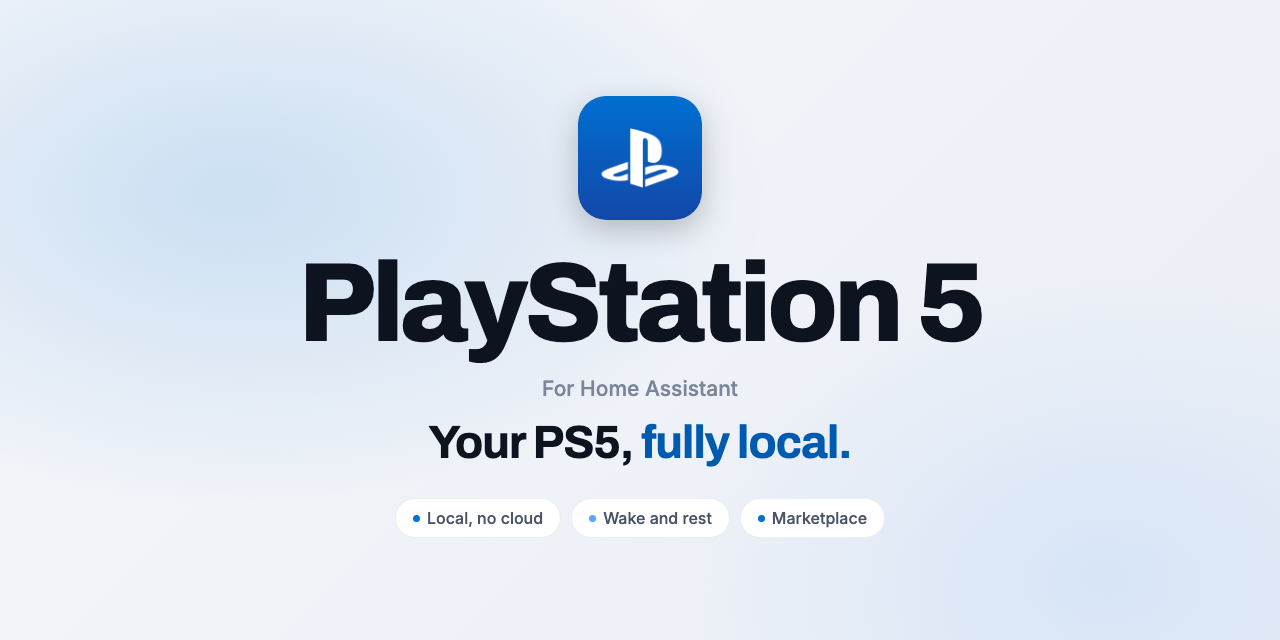
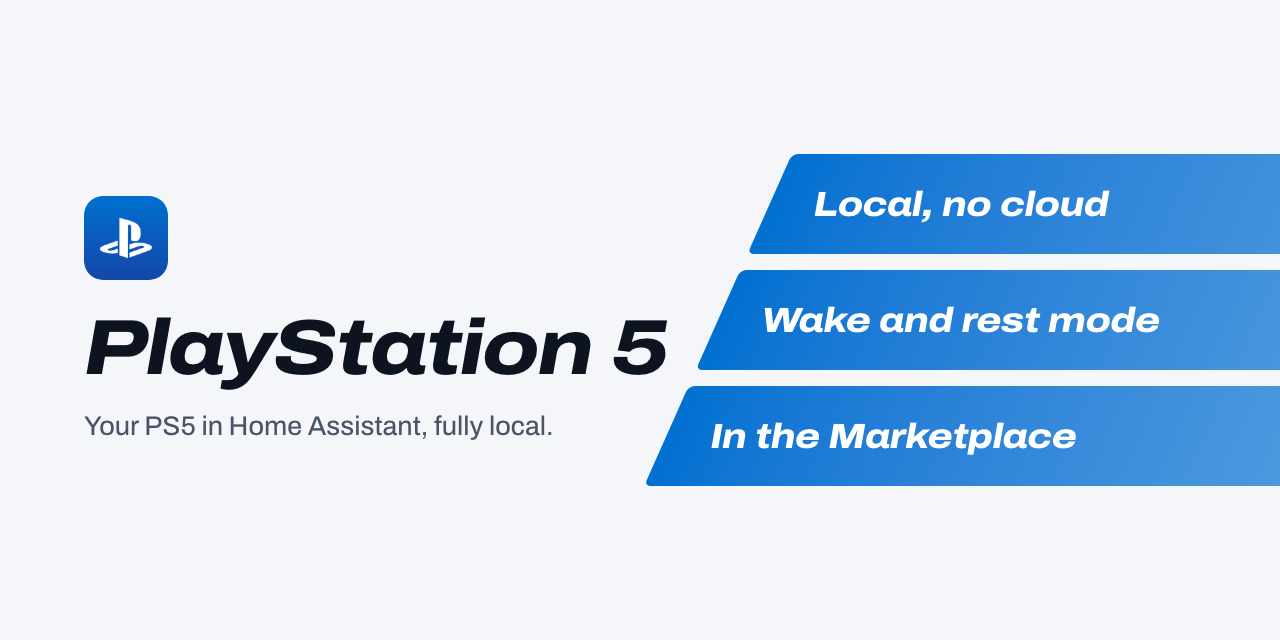
README and project page in the v2 design
Title banner with the lanes, Install and Set up as one Get started, shared
footer. The page loads theme v2 (Archivo from sh1ft-w.github.io, no Google
Fonts), hero left with the three key facts on the lanes.

Claude-Session: https://claude.ai/code/session_01TLmTtZLAvnS1BJ3w9tzxXq

diff --git a/docs/index.html b/docs/index.html
@@ -13,12 +13,9 @@
 <meta property="og:description" content="Status, wake-up and rest mode for the PS5, fully local. Game and trophies optional.">
 <meta property="og:image" content="https://sh1ft-w.github.io/playstation-5/images/readme-title-social.png">
 <link rel="icon" href="logo.png">
-<link rel="preconnect" href="https://fonts.googleapis.com">
-<link rel="preconnect" href="https://fonts.gstatic.com" crossorigin>
-<link href="https://fonts.googleapis.com/css2?family=Archivo:wght@600;700;800;900&family=Inter:wght@400;500;600&family=JetBrains+Mono:wght@400;500&display=swap" rel="stylesheet">
-<!-- Shared SH1FT-W design (tokens, glass navigation, light/dark, DE/EN, reveal) -->
-<link rel="stylesheet" href="https://sh1ft-w.github.io/theme/v1/theme.css">
-<script src="https://sh1ft-w.github.io/theme/v1/theme.js"></script>
+<!-- Shared SH1FT-W design, version 2 (tokens, Archivo, navigation, light/dark, DE/EN, the lanes) -->
+<link rel="stylesheet" href="https://sh1ft-w.github.io/theme/v2/theme.css">
+<script src="https://sh1ft-w.github.io/theme/v2/theme.js"></script>
 <style>
 /* PS5-Palette: kühles Weiß bei Tag, tiefes Nachtblau bei Nacht, ein Akzent in PlayStation-Blau */
 :root {
@@ -98,19 +95,12 @@ section.tint { background: var(--bg-2); }
 
 /* Hero */
 .hero { padding: clamp(56px, 9vw, 112px) 0 clamp(64px, 8vw, 104px); text-align: center; overflow: hidden; }
-.hero .glow { position: absolute; inset: -20% -10% auto; height: 90%; pointer-events: none;
-  background: radial-gradient(40% 36% at 30% 30%, rgba(0,112,209,0.2), transparent 70%), radial-gradient(36% 34% at 72% 24%, rgba(90,166,255,0.18), transparent 70%);
-  filter: blur(50px); }
 .hero .wrap { position: relative; }
 .hero .lead { max-width: 660px; margin-left: auto; margin-right: auto; }
 .cta { display: flex; flex-wrap: wrap; gap: 12px; justify-content: center; margin-top: 34px; }
 .meta { margin-top: 22px; font-size: 14px; color: var(--ink-3); display: flex; flex-wrap: wrap; gap: 8px 14px; justify-content: center; align-items: center; }
 .pill { display: inline-flex; align-items: center; gap: 6px; padding: 5px 12px; border-radius: 999px; background: var(--card); box-shadow: var(--shadow); font-weight: 600; color: var(--ink-2); font-size: 13px; }
 .pill i { width: 7px; height: 7px; border-radius: 50%; background: var(--blue); display: inline-block; }
-
-/* Bühne: das README-Titelbild */
-.stage { position: relative; margin: clamp(48px, 7vw, 84px) auto 0; max-width: 1100px; }
-.stage .photo { display: block; width: 100%; height: auto; aspect-ratio: 2 / 1; border-radius: var(--radius-lg); box-shadow: var(--shadow-lg); }
 
 /* Bento: Gerade neu */
 .bento { display: grid; grid-template-columns: repeat(12, 1fr); gap: 16px; }
@@ -256,6 +246,35 @@ footer .fine { flex-basis: 100%; line-height: 1.6; }
   .tbl.ctl th:not(:first-child), .tbl.ctl td:not(:first-child) { width: 72px; }
   .shield { flex-direction: column; }
 }
+
+/* ---- theme v2 ---- */
+:root { --font: "Archivo", -apple-system, BlinkMacSystemFont, system-ui, sans-serif; --display: var(--font); --mono: ui-monospace, "SF Mono", Menlo, monospace;
+  --lane-a: #0070D1; --lane-b: #5AA6FF; --radius: 20px; --radius-lg: 28px; --max: 1200px; }
+body { font-family: var(--font); }
+h1 { font-size: clamp(44px, 6vw, 84px); line-height: 1; font-weight: 800; font-stretch: 118%; font-style: italic; letter-spacing: -0.025em; }
+h2 { font-size: clamp(30px, 3.8vw, 48px); line-height: 1.08; font-weight: 750; font-stretch: 112%; letter-spacing: -0.02em; }
+h3 { font-stretch: 106%; }
+h1 em, h2 em { color: inherit !important; font-style: inherit; }
+.center { text-align: left; } .center .lead { margin-left: 0; margin-right: 0; }
+.head { max-width: 50em; }
+.eyebrow { text-transform: none; letter-spacing: 0; font-size: 16px; font-weight: 650; margin-bottom: 12px; }
+.eyebrow::before { display: none; }
+.cap { text-align: left; }
+.btn { border-radius: 12px; box-shadow: none; }
+.btn.ghost { background: var(--chip); box-shadow: none; }
+.pill { box-shadow: none; background: var(--chip); border-radius: 8px; }
+.b, .tile, .panel, .prof, .tbl, .faq details, .flow .lane { box-shadow: none; border: 1px solid var(--line); }
+.b .tag, .tg, .tbl thead th, .tbl .grp td { text-transform: none; letter-spacing: 0; font-size: 13px; }
+.b .tag, .tg { border-radius: 6px; }
+.tile .ico, .shield .ico { border-radius: 10px; }
+.hero { text-align: left; padding: clamp(48px, 7vw, 96px) 0 clamp(56px, 7vw, 96px); overflow: hidden; }
+.hero .wrap { display: grid; grid-template-columns: minmax(0, 1.15fr) minmax(0, 1fr); gap: clamp(24px, 4vw, 64px); align-items: center; }
+.hero .mark { width: 64px; height: 64px; border-radius: 15px; margin-bottom: 26px; }
+.hero .lead { margin-left: 0; max-width: 34em; }
+.cta, .meta { justify-content: flex-start; }
+.hero .s-lanes { margin-right: calc(-1 * var(--gutter) - 14vw); }
+.s-track b { color: #fff; font: italic 800 clamp(20px, 2.5vw, 34px)/1 var(--font); font-stretch: 116%; letter-spacing: -0.015em; white-space: nowrap; }
+@media (max-width: 900px) { .hero .wrap { grid-template-columns: 1fr; } .hero .s-lanes { margin: 8px calc(-1 * var(--gutter) - 8vw) 0 44px; } }
 </style>
 </head>
 <body>
@@ -281,25 +300,24 @@ footer .fine { flex-basis: 100%; line-height: 1.6; }
 </div>
 
 <section class="hero" id="top">
-  <div class="glow" aria-hidden="true"></div>
   <div class="wrap">
-    <p class="eyebrow reveal"><span class="en">The PS5 in Home Assistant</span><span class="de">Die PS5 in Home Assistant</span></p>
-    <h1 class="reveal d1"><span class="en">Your PS5,<br><em>fully local.</em></span><span class="de">Deine PS5,<br><em>ganz lokal.</em></span></h1>
-    <p class="lead reveal d2"><span class="en">Your PS5 in Home Assistant, the way the PS App sees it at home: <strong>on, rest mode or off, wake it up, send it to sleep.</strong> Straight over your network, without cloud, MQTT or an extra app. Game and trophies come <strong>optionally</strong> with your PSN login.</span><span class="de">Deine PS5 in Home Assistant, so wie die PS-App sie im Heimnetz sieht: <strong>an, Ruhemodus oder aus, aufwecken, schlafen schicken.</strong> Direkt über dein Netz, ohne Cloud, MQTT oder Zusatz-App. Spiel und Trophäen kommen <strong>auf Wunsch</strong> mit deiner PSN-Anmeldung.</span></p>
-    <div class="cta reveal d3">
+    <div>
+      <img class="mark" src="logo.png" alt="" width="64" height="64">
+      <h1><span class="en">Your PS5, fully local.</span><span class="de">Deine PS5, ganz lokal.</span></h1>
+      <p class="lead reveal d2"><span class="en">Your PS5 in Home Assistant, the way the PS App sees it at home: <strong>on, rest mode or off, wake it up, send it to sleep.</strong> Straight over your network, without cloud, MQTT or an extra app. Game and trophies come <strong>optionally</strong> with your PSN login.</span><span class="de">Deine PS5 in Home Assistant, so wie die PS-App sie im Heimnetz sieht: <strong>an, Ruhemodus oder aus, aufwecken, schlafen schicken.</strong> Direkt über dein Netz, ohne Cloud, MQTT oder Zusatz-App. Spiel und Trophäen kommen <strong>auf Wunsch</strong> mit deiner PSN-Anmeldung.</span></p>
+      <div class="cta reveal d3">
       <a class="btn" href="#install"><span class="en">Install from the Marketplace</span><span class="de">Über den Marketplace installieren</span></a>
       <a class="btn ghost" href="https://github.com/SH1FT-W/playstation-5#readme"><span class="en">Read the README</span><span class="de">Zur Anleitung</span></a>
     </div>
-    <p class="meta reveal d3">
+      <p class="meta reveal d3">
       <span class="pill"><i></i><span id="ps5-version">Version 26.11.2</span></span>
       <span class="en">Home Assistant 2026.9 or newer &middot; English and German &middot; GPLv3</span><span class="de">Home Assistant 2026.9 oder neuer &middot; Deutsch und Englisch &middot; GPLv3</span>
     </p>
-
-    <div class="stage reveal d3">
-      <picture>
-        <source media="(prefers-color-scheme: dark)" srcset="images/readme-title-dark.webp">
-        <img class="photo" src="images/readme-title-light.webp" width="2560" height="1280" alt="PlayStation 5: Your PS5, fully local.">
-      </picture>
+    </div>
+    <div class="s-lanes" aria-hidden="true">
+      <div class="s-lane"><div class="s-track"><b><span class="en">Local, no cloud</span><span class="de">Lokal, ohne Cloud</span></b></div></div>
+      <div class="s-lane"><div class="s-track"><b><span class="en">Wake and rest mode</span><span class="de">Aufwecken und Ruhemodus</span></b></div></div>
+      <div class="s-lane"><div class="s-track"><b><span class="en">In the Marketplace</span><span class="de">Im Marketplace</span></b></div></div>
     </div>
   </div>
 </section>

diff --git a/README.md b/README.md
@@ -2,14 +2,14 @@
 
 <picture>
   <source media="(prefers-color-scheme: dark)" srcset="docs/images/readme-title-dark.webp" />
-  <img src="docs/images/readme-title-light.webp" alt="PlayStation 5: Your PS5, fully local." />
+  <img src="docs/images/readme-title-light.webp" alt="PlayStation 5: your PS5 in Home Assistant, fully local. Local, no cloud. Wake and rest mode. In the Marketplace." />
 </picture>
 
 [![Version](https://img.shields.io/badge/dynamic/json?url=https%3A%2F%2Fraw.githubusercontent.com%2FSH1FT-W%2Fplaystation-5%2Fmain%2Fcustom_components%2Fps5%2Fmanifest.json&query=%24.version&label=version&style=flat-square&color=0070D1&labelColor=111111)](https://github.com/SH1FT-W/playstation-5/releases/latest)
 [![Home Assistant](https://img.shields.io/badge/Home%20Assistant-2026.9%2B-0070D1?style=flat-square&labelColor=111111&logo=homeassistant&logoColor=white)](https://www.home-assistant.io)
 [![Marketplace](https://img.shields.io/badge/Marketplace-default-0070D1?style=flat-square&labelColor=111111)](https://hacs.xyz)
 
-<a href="https://sh1ft-w.github.io/playstation-5"><b>Website</b></a>&emsp;<a href="#install">Install</a>&emsp;<a href="#set-up">Set up</a>&emsp;<a href="#entities">Entities</a>&emsp;<a href="CHANGELOG.md">Changelog</a>
+<a href="https://sh1ft-w.github.io/playstation-5"><b>Website</b></a>&emsp;<a href="#get-started">Get started</a>&emsp;<a href="#entities">Entities</a>&emsp;<a href="#examples">Examples</a>&emsp;<a href="CHANGELOG.md">Changelog</a>
 
 </div>
 
@@ -19,7 +19,7 @@ Your PS5 in Home Assistant, the way the PS App sees it at home: **on, rest mode 
 
 The PS5 does not tell the local network which game is running. If you want the game, trophies and online status too, add your PlayStation Network login. Control never goes through it.
 
-## Local or with the PSN cloud
+## What you get
 
 |  | Local | With PSN login |
 |:--|:--:|:--:|
@@ -33,12 +33,19 @@ The PS5 does not tell the local network which game is running. If you want the g
 
 **New in 26.11:** play time sensors for daily limits, and the PSN login can be switched on right in setup. Every change is in the [changelog](CHANGELOG.md).
 
-<a id="install"></a>
-## Install
+<a id="get-started"></a><a id="install"></a><a id="set-up"></a>
+## Get started
 
 [![Open in the Marketplace](https://my.home-assistant.io/badges/hacs_repository.svg)](https://my.home-assistant.io/redirect/hacs_repository/?owner=SH1FT-W&repository=playstation-5&category=integration)
 
-Search for **PlayStation 5** under **Settings > Marketplace** (called HACS before Home Assistant 2026.11), download it and restart Home Assistant.
+Before you start, check three switches on the PS5: **Enable Remote Play**, and under **Power Saving > Features Available in Rest Mode** both **Stay Connected to the Internet** and **Enable Turning On PS5 from Network**. Without them it cannot be woken.
+
+1. **Install it.** Search for **PlayStation 5** under **Settings > Marketplace** (called HACS before Home Assistant 2026.11), download it and restart Home Assistant.
+2. **Add the console.** It usually shows up under **Settings > Devices & services > Discovered**. If not, choose **Add integration > PlayStation 5**. It has to be on or in rest mode.
+3. **Pair it.** On the PS5 open **Settings > System > Remote Play > Pair device** and enter the 8-digit PIN in Home Assistant.
+4. **Your PSN account.** Enter the account ID if you know it (it is filled in when the PlayStation Network integration is set up). Otherwise paste an NPSSO token: sign in at playstation.com, open https://ca.account.sony.com/api/v1/ssocookie and copy the value after `npsso`. Leave **Also use the NPSSO token for the PSN cloud** ticked to switch on game, trophies and online status right away.
+
+You can add the PSN login later under **three dots > Configure**. A new IP address is picked up by itself; if not, use **three dots > Reconfigure**.
 
 <details>
 <summary>Install by hand</summary>
@@ -47,17 +54,6 @@ Search for **PlayStation 5** under **Settings > Marketplace** (called HACS befor
 2. Copy `custom_components/ps5` into `/config/custom_components/` and restart Home Assistant.
 
 </details>
-
-<a id="set-up"></a>
-## Set up
-
-Before you start, check three switches on the PS5: **Enable Remote Play**, and under **Power Saving > Features Available in Rest Mode** both **Stay Connected to the Internet** and **Enable Turning On PS5 from Network**. Without them it cannot be woken.
-
-1. **Add the console.** It usually shows up under **Settings > Devices & services > Discovered**. If not, choose **Add integration > PlayStation 5**. It has to be on or in rest mode.
-2. **Pair it.** On the PS5 open **Settings > System > Remote Play > Pair device** and enter the 8-digit PIN in Home Assistant.
-3. **Your PSN account.** Enter the account ID if you know it (it is filled in when the PlayStation Network integration is set up). Otherwise paste an NPSSO token: sign in at playstation.com, open https://ca.account.sony.com/api/v1/ssocookie and copy the value after `npsso`. Leave **Also use the NPSSO token for the PSN cloud** ticked to switch on game, trophies and online status right away.
-
-You can add the PSN login later under **three dots > Configure**. A new IP address is picked up by itself; if not, use **three dots > Reconfigure**.
 
 <a id="entities"></a>
 ## Entities
@@ -88,6 +84,7 @@ IDs for a console named "PlayStation 5". Names are in English and German.
 
 </details>
 
+<a id="examples"></a>
 ## Examples
 
 Switch the TV to the console's input when the PS5 starts:
@@ -139,7 +136,7 @@ actions:
 
 - **"The PS5 is not waiting for pairing".** Keep **Pair device** open on the PS5 until Home Assistant is done.
 - **Switching off asks for a new PIN.** The device was removed on the PS5 under Remote Play. Pair again.
-- **Wake-up does nothing.** Check the three rest mode switches under [Set up](#set-up).
+- **Wake-up does nothing.** Check the three rest mode switches under [Get started](#get-started).
 - **Cloud entities unavailable.** Sony is not reachable or the login was rejected. Look at **Settings > Repairs**.
 - **Debug log:**
 
@@ -195,3 +192,11 @@ Test requirements: `pip install -r requirements_test.txt`. GitHub Actions runs t
 [GPLv3](LICENSE), because the Remote Play protocol and key tables come from pyremoteplay. Copyright 2026 SH1FT-W.
 
 <sub>PlayStation 5 is an independent project, not affiliated with, endorsed or sponsored by Sony Interactive Entertainment. PlayStation, PS5 and PlayStation Network are trademarks or registered trademarks of Sony Interactive Entertainment Inc.</sub>
+
+<br/>
+
+<div align="center">
+<a href="https://sh1ft-w.github.io"><img src="https://sh1ft-w.github.io/readme/footer.png" width="640" alt="All SH1FT-W projects"></a>
+<br/>
+<sub>More open source for Home Assistant and the Mac at <a href="https://sh1ft-w.github.io">sh1ft-w.github.io</a></sub>
+</div>
